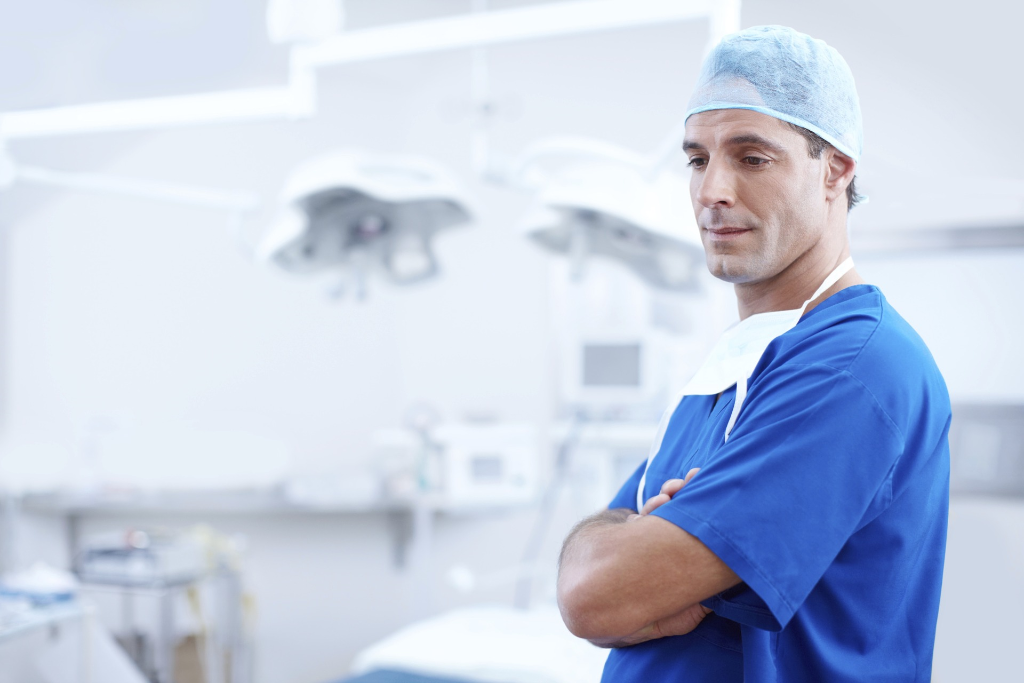
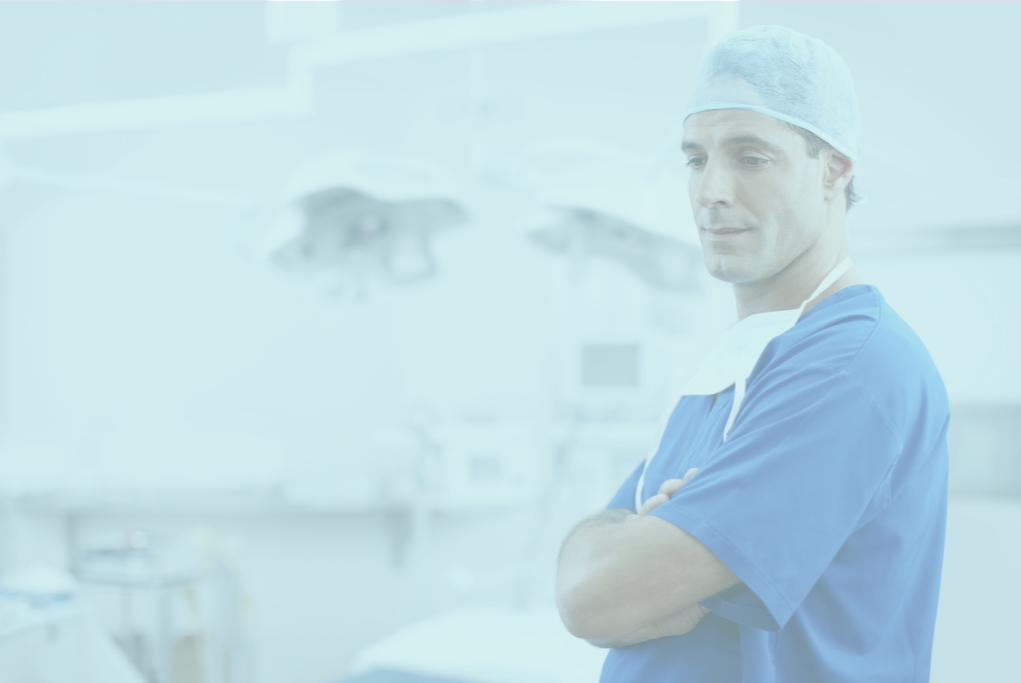
Still Working

diff --git a/src/components/pages/Home.jsx b/src/components/pages/Home.jsx
@@ -1,7 +1,9 @@
 import React, { Component } from 'react';
-import { Form, Icon, Input, Button, DatePicker, TimePicker } from 'antd';
+import { Form, Icon, Input, Button, DatePicker, TimePicker, Select } from 'antd';
+const { Option } = Select;
 
 const format = 'HH:mm';
+
 
 function hasErrors(fieldsError) {
     return Object.keys(fieldsError).some(field => fieldsError[field]);
@@ -11,9 +13,27 @@ function hasErrors(fieldsError) {
         e.preventDefault();
     }
 
-    function onChange(e){
-
+    function onTimeChange(time, timeString){
+        console.log(time, timeString);
     }
+    function onDateChange(date, dateString){
+        console.log(date, dateString);
+    }
+
+    function onGenderChange(gender){
+        console.log(gender);
+    }
+    const formItemLayout = {
+    labelCol: {
+        xs: { span: 24 },
+        sm: { span: 8 },
+    },
+    wrapperCol: {
+        xs: { span: 24 },
+        sm: { span: 16 },
+    },
+    };
+      
 const WrappedHomeForm = ({ form }) => {
     const { getFieldDecorator, getFieldsError, getFieldError, isFieldTouched } = form;
 
@@ -21,41 +41,75 @@ const WrappedHomeForm = ({ form }) => {
     const usernameError = isFieldTouched('username') && getFieldError('username');
     const dateError = isFieldTouched('date') && getFieldError('date');
     const timeError = isFieldTouched('time') && getFieldError('time');
+    const phoneError = isFieldTouched('phone') && getFieldError('phone');
+    const genderError = isFieldTouched('gender') && getFieldError('gender');
+
 
     function getDisabledHours(){
 
     } 
 
+    const datePrefixSelector = getFieldDecorator('prefix', {
+        initialValue: '91',
+      })(
+        <Select style={{ width: 70 }}>
+          <Option value="91">+91</Option>
+        </Select>,
+      );
+
     return (
         <div class="container">
-            <Form onSubmit={bookAppointment}>
+            <Form {...formItemLayout} onSubmit={bookAppointment} className="signUpForm">
                 <Form.Item validateStatus={usernameError ? 'error' : ''} help={usernameError || ''}>
                     {getFieldDecorator('username', {
                         rules: [{ required: true, message: 'Please input your username!' }],
                     })(
                         <Input
-                            placeholder="Username"
+                            placeholder="Enter your full name .."
+                            size="large" 
+                            style={{ width: '50%' }}
                         />,
                     )}
                 </Form.Item>
-                <Form.Item  validateStatus={dateError ? 'error' : ''} help={dateError || ''}>
+                <Form.Item validateStatus={phoneError ? 'error' : ''} help={phoneError || ''}>
+                    {getFieldDecorator('phone', {
+                        rules: [{ required: true, message: 'Please input your phone number!' }],
+                        })(<Input size="large" placeholder="Enter phone number" addonBefore={datePrefixSelector} style={{ width: '50%' }} />)}
+                </Form.Item>
+                <Form.Item validateStatus={genderError ? 'error' : ''} help={genderError || ''}>
+                    {getFieldDecorator('gender', {
+                        rules: [{ required: true, message: 'Please select Gender!' }],
+                    })(
+                        <Select
+                            style={{ width: 225 }}
+                            placeholder="Select gender"
+                            onChange={onGenderChange}
+                            size="large" 
+                        >
+                            <Option value="male">Male</Option>
+                            <Option value="female">Female</Option>
+                            <Option value="other">Other</Option>
+                        </Select>
+                    )}
+                </Form.Item>
+                <Form.Item validateStatus={dateError ? 'error' : ''} help={dateError || ''}>
                     {getFieldDecorator('date', {
                         rules: [{ required: true, message: 'Please select date!' }],
                     })(
-                        <DatePicker onChange={onChange} />
+                        <DatePicker onChange={onDateChange} size="large" />
                     )}
                 </Form.Item>
-                <Form.Item  validateStatus={timeError ? 'error' : ''} help={timeError || ''}>
+                <Form.Item validateStatus={timeError ? 'error' : ''} help={timeError || ''}>
                     {getFieldDecorator('time', {
                         rules: [{ required: true, message: 'Please select time!' }],
                     })(
-                        <TimePicker  />
+                        <TimePicker onChange={onTimeChange} size="large" format={format}  />
                     )}
                 </Form.Item>
 
                 <Form.Item>
-                    <Button type="primary" htmlType="submit" disabled={hasErrors(getFieldsError())}>
-                        Book
+                    <Button type="primary" size="large"  htmlType="submit" disabled={hasErrors(getFieldsError())}>
+                        Book Appointment
           </Button>
                 </Form.Item>
             </Form>

diff --git a/src/components/pages/Contact.jsx b/src/components/pages/Contact.jsx
@@ -1,13 +1,40 @@
 import React, { Component } from 'react';
+import GoogleMapReact from 'google-map-react';
 import Header from '../Header';
 import Footer from '../Footer';
+import { mapConfig } from '../../constants'
+
+const AnyReactComponent = ({ text }) => (
+    <div>
+      {text}
+    </div>
+  );
 
 const Contact = ({}) => (
     <div>
         <Header />
-        <div class="rc-container">
-            Contact            
-        </div>
+        <div class="rc-container contact-container">
+            <div>
+                <h1>Clinic Address </h1>
+                <h3>#20, Anand Nagar</h3>
+                <h3>Hadapsar, Pune</h3>
+                <h3>411028</h3>
+                <h1>Time </h1>
+                <h3>10 AM - 8 PM</h3>
+                <h1>Call </h1>
+                <h3>+91 9823456890</h3>
+            </div>
+                <GoogleMapReact
+                    defaultCenter={mapConfig.center}
+                    defaultZoom={mapConfig.zoom}
+                >
+                <AnyReactComponent 
+                    lat={59.955413} 
+                    lng={30.337844} 
+                    text={'Ketki clinic'} 
+                />
+                </GoogleMapReact>         
+            </div>
         <Footer />
     </div>
 )

diff --git a/src/App.css b/src/App.css
@@ -1,36 +1,47 @@
 html, body {
   margin: 0;
   padding: 0;
+  color: white;
+  background: #fbfbfb;
+  font-family: 'Montserrat', sans-serif;
+  background-image: url('./assets/doctor.png');
+  background-size: cover; 
+}
+
+.app {
+  height: 100vh;
 }
 
 a {
   text-decoration: none;
-  color: inherit;
 }
 .header {
   height: 6rem;
   display: flex;
   justify-content: space-between;
+  font-size: 1.3rem;
   align-items: center;
 }
 
 .container {
-  height: 35.8rem;
-  background-image: url('./assets/doctor.png');
-  background-size: cover; 
+  height: 100%;
 }
 
 .rc-container {
   height: 30rem;
 }
 
-footer {
+.footer {
   height: 5.6rem;
-  background-color: #5fcc5f;
+  background-color: #56575a78;
   display: flex;
-  justify-content: space-between;
+  justify-content: space-around;
   align-items: center;
   color: white;
+  font-size: 1.5rem;
+  position: absolute;
+  bottom: 0;
+  width: 100%;
 }
 
 .nav {
@@ -61,4 +72,16 @@ li {
 }
 li:hover {
   cursor: pointer;
+}
+
+.signUpForm{
+  margin-left: 5rem !important;
+  padding-top: 5rem !important;
+}
+.contact-container {
+  display: flex;
+  justify-content: space-evenly;
+}
+.contact-container div {
+  flex-basis: 40%;
 }

diff --git a/public/index.html b/public/index.html
@@ -5,6 +5,7 @@
     <link rel="shortcut icon" href="%PUBLIC_URL%/favicon.ico" />
     <meta name="viewport" content="width=device-width, initial-scale=1" />
     <meta name="theme-color" content="#000000" />
+    <link href="https://fonts.googleapis.com/css?family=Montserrat&display=swap" rel="stylesheet">
     <!--
       manifest.json provides metadata used when your web app is installed on a
       user's mobile device or desktop. See https://developers.google.com/web/fundamentals/web-app-manifest/
@@ -19,7 +20,7 @@
       work correctly both with client-side routing and a non-root public URL.
       Learn how to configure a non-root public URL by running `npm run build`.
     -->
-    <title>React App</title>
+    <title>Ketki Clinic</title>
   </head>
   <body>
     <noscript>You need to enable JavaScript to run this app.</noscript>

diff --git a/src/index.css b/src/index.css
@@ -1,8 +1,6 @@
 body {
   margin: 0;
-  font-family: -apple-system, BlinkMacSystemFont, "Segoe UI", "Roboto", "Oxygen",
-    "Ubuntu", "Cantarell", "Fira Sans", "Droid Sans", "Helvetica Neue",
-    sans-serif;
+  font-family: 'Montserrat', sans-serif !important;
   -webkit-font-smoothing: antialiased;
   -moz-osx-font-smoothing: grayscale;
 }

diff --git a/src/components/Footer.jsx b/src/components/Footer.jsx
@@ -1,7 +1,7 @@
 import React, { Component } from 'react';
 
 const Footer = ({}) => (
-    <footer>
+    <footer class="footer">
         <div><p>&copy; Ketaki Clinic</p></div>
         <div><p>By Cybzilla Systems</p></div>
     </footer>

diff --git a/src/App.js b/src/App.js
@@ -3,6 +3,7 @@ import logo from './logo.svg';
 import './App.css';
 import Home from './components/pages/Home';
 import Header from './components/Header';
+import Footer from './components/Footer';
 
 function App() {
   return (

diff --git a/src/constants.js b/src/constants.js
@@ -1,1 +1,5 @@
 export const API_URL = 'http://192.168.0.101:5000/api';
+export const mapConfig = {
+    center: {lat: 59.95, lng: 30.33},
+    zoom: 11
+  };
